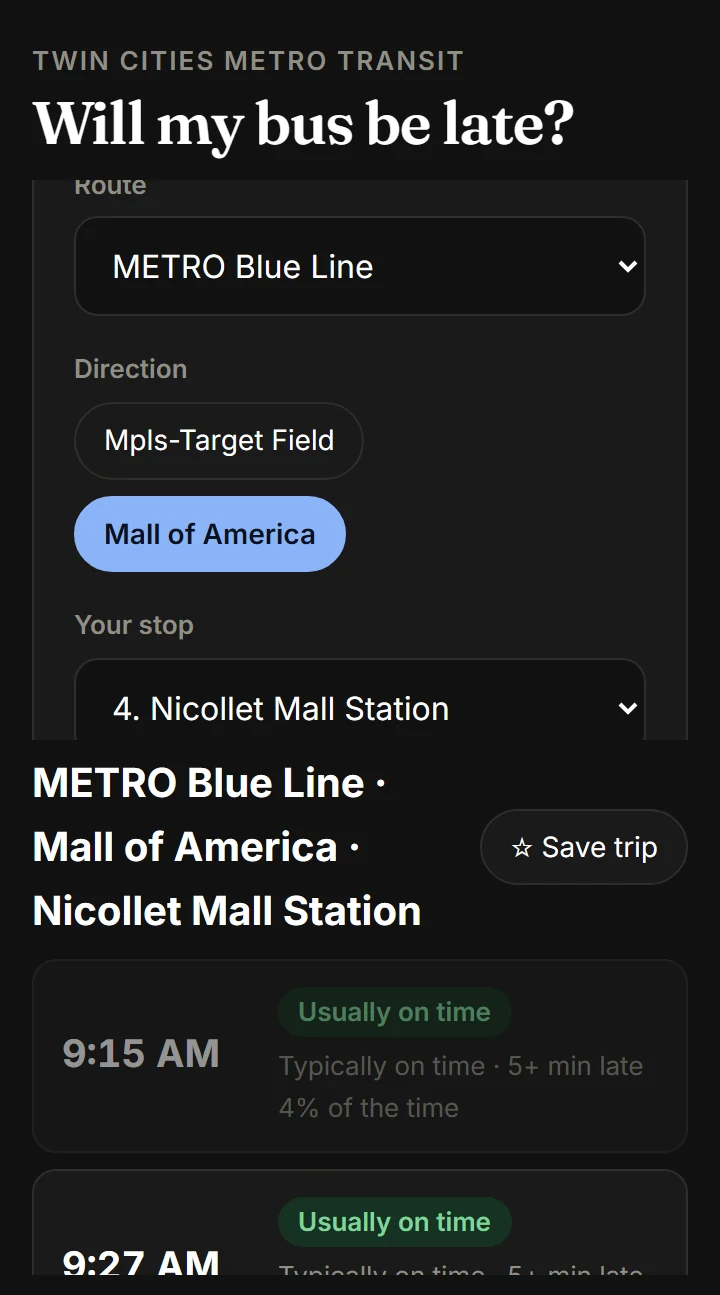
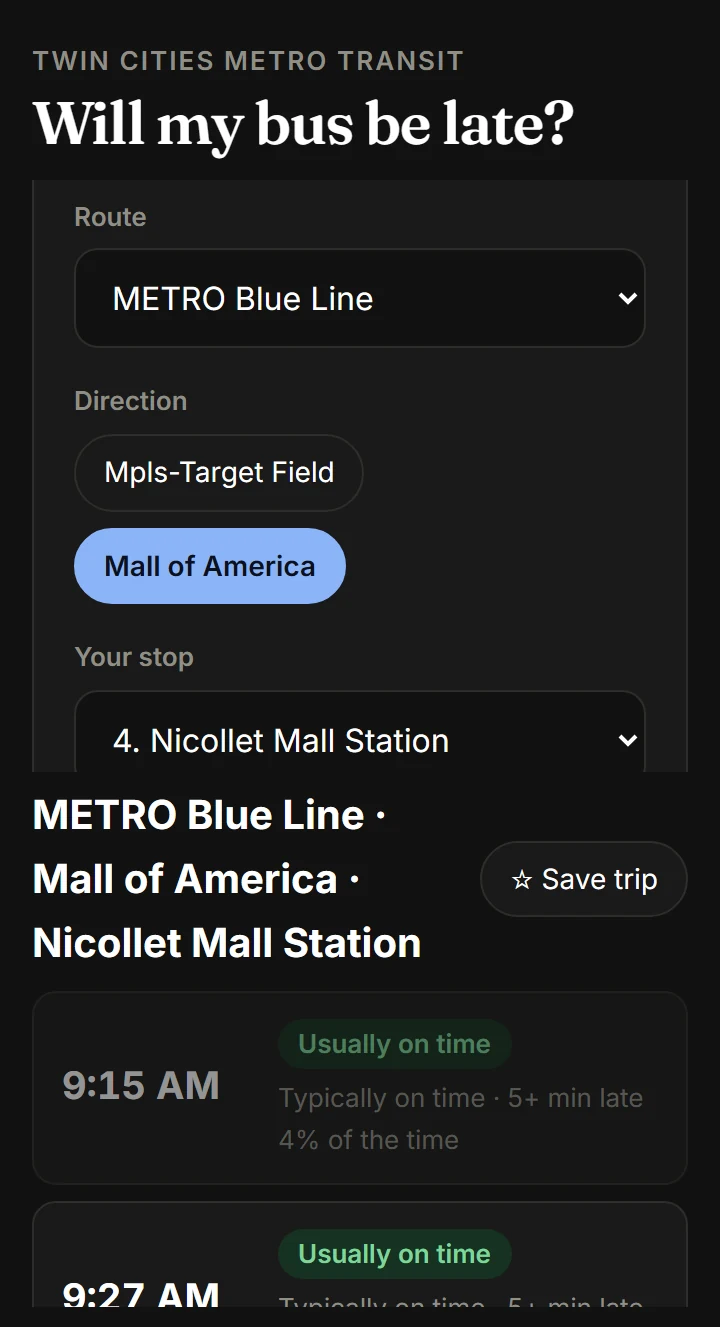
Fix clipped Route label in bus mobile screenshot

diff --git a/docs/index.html b/docs/index.html
@@ -56,7 +56,7 @@
               <div class="sub-text">
                 <p>Pick a route, stop and time to see how often each departure runs late or early, plus the chance it is 5+ minutes late. LightGBM models retrained daily on live-feed history and weather run right in the browser.</p>
               </div>
-              <div class="sub-media"><picture><source media="(max-width:600px)" srcset="images/bus-mobile.webp?v=1"><img src="images/bus-wide.webp?v=1" class="sub-img" alt="Will my bus be late? Blue Line toward Mall of America from Government Plaza Station, listing each upcoming departure with its usual delay and chance of running 5+ minutes late, plus the most and least reliable trips" loading="lazy"></picture></div>
+              <div class="sub-media"><picture><source media="(max-width:600px)" srcset="images/bus-mobile.webp?v=2"><img src="images/bus-wide.webp?v=1" class="sub-img" alt="Will my bus be late? Blue Line toward Mall of America from Government Plaza Station, listing each upcoming departure with its usual delay and chance of running 5+ minutes late, plus the most and least reliable trips" loading="lazy"></picture></div>
             </div>
           </div>
         </article>
